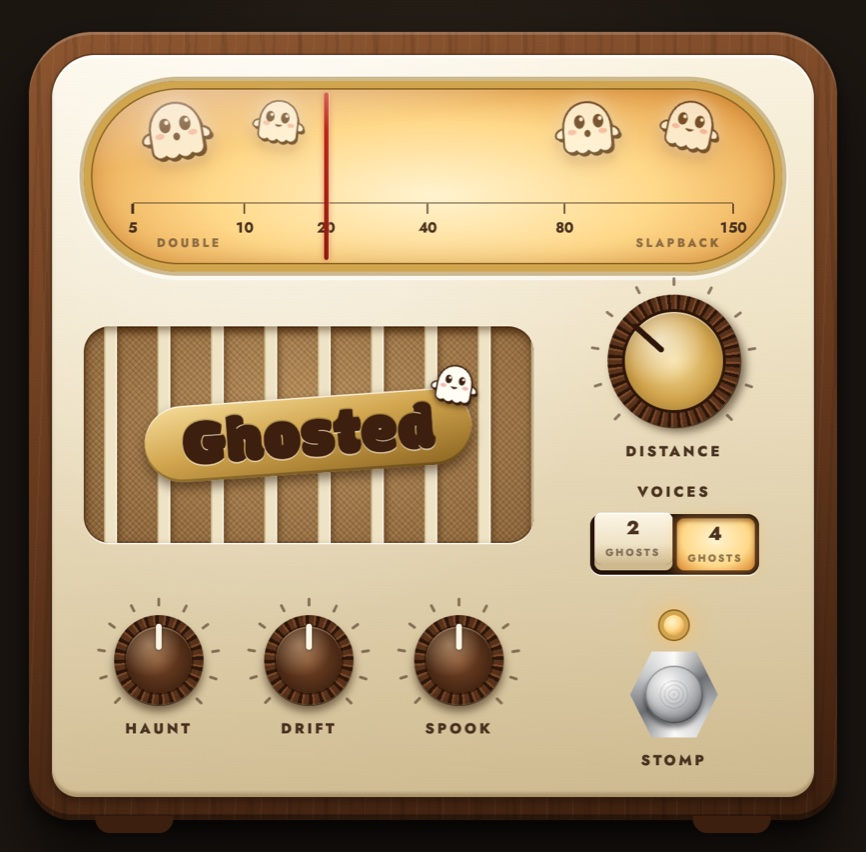
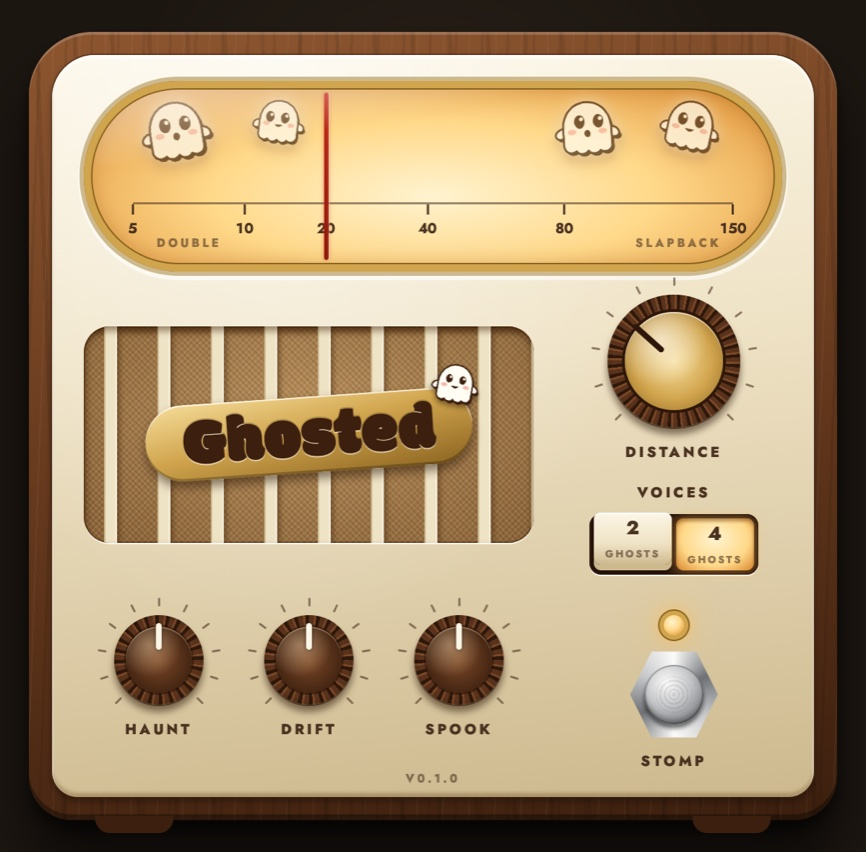
Show the plugin's version on the editor
The bridge sends the crate version from Cargo.toml in its init
message, and the page prints it small at the bottom centre of the
cream face, in the dial's ink. This replaces the version in the
grille's corner, which came from a script appended to the page and so
didn't show when the page was loaded from the dev server. The browser
mock takes its version from ?version=, and shows 0.0.0 without it.

The screenshot is retaken in WebKit, the engine closest to the macOS
plugin's webview.

Claude-Session: https://claude.ai/code/session_01M6vpxRWRNtrAWsf2BAetNX

diff --git a/ui/index.html b/ui/index.html
@@ -119,6 +119,7 @@
   }
 
   .face {
+    position: relative;
     display: grid;
     gap: 16px;
     padding: 18px 22px 20px;
@@ -131,6 +132,18 @@
       inset 0 -3px 2px rgb(110 80 40 / 0.35),
       0 0 0 1px rgb(60 30 10 / 0.5),
       0 3px 6px rgb(0 0 0 / 0.35);
+  }
+
+  .version {
+    position: absolute;
+    inset-block-end: 7px;
+    inset-inline: 0;
+    font-size: 8px;
+    font-weight: 800;
+    letter-spacing: 0.24em;
+    text-align: center;
+    text-transform: uppercase;
+    color: var(--ink-soft);
   }
 
   /* ---------- dial ---------- */
@@ -318,19 +331,6 @@
       box-shadow: inset 0 3px 6px rgb(60 30 5 / 0.5);
       filter: drop-shadow(2px 0 2px rgb(60 30 5 / 0.45));
     }
-  }
-
-  .version {
-    position: absolute;
-    inset-block-end: 8px;
-    inset-inline-end: 14px;
-    font-size: 10px;
-    font-weight: 600;
-    letter-spacing: 0.06em;
-    color: var(--walnut-lo);
-    opacity: 0.7;
-    text-shadow: 0 1px 0 rgb(255 255 255 / 0.25);
-    pointer-events: none;
   }
 
   .badge {
@@ -681,7 +681,6 @@
           <span class="wordmark">Ghosted</span>
 
         </div>
-        <span class="version" id="version"></span>
       </div>
       <div class="tuning">
         <div class="control" data-knob="distance" style="--size: 92px"></div>
@@ -697,6 +696,7 @@
       </div>
       <div class="footswitch" data-stomp-switch="stomp"></div>
     </div>
+    <span class="version" id="version"></span>
   </div>
 </main>
 
@@ -929,8 +929,7 @@
     switch (msg.type) {
       case "key": return forwardKey(msg);
       case "init":
-        // The plugin appends its version after the page; the browser mock has none.
-        document.getElementById("version").textContent = `v${window.GHOSTED_VERSION ?? "dev"}`;
+        document.getElementById("version").textContent = `v${msg.version}`;
         params.clear();
         msg.params.forEach((p) => params.set(p.id, { ...p, value: p.default, text: "" }));
         build();
@@ -952,6 +951,7 @@
   // Mirrors the plugin's parameters so the page can be worked on in a
   // browser. Keep it in step with params.rs.
   function mockBridge() {
+    const version = new URLSearchParams(location.search).get("version") ?? "0.0.0";
     const pct = (n) => `${Math.round(n * 100)}%`;
     const specs = [
       { id: "haunt", name: "Haunt", steps: 0, default: 0.5, text: pct },
@@ -970,7 +970,7 @@
     return (msg) => {
       switch (msg.type) {
         case "ready":
-          send({ type: "init", params: specs.map(({ text, ...rest }) => ({ options: [], ...rest })) });
+          send({ type: "init", version, params: specs.map(({ text, ...rest }) => ({ options: [], ...rest })) });
           sendValues(specs.map((s) => s.id));
           return;
         case "set":

diff --git a/plugin/src/bridge.rs b/plugin/src/bridge.rs
@@ -4,20 +4,21 @@ use serde_json::{json, Value};
 use std::sync::Arc;
 
 /// Speaks the page's message protocol for any `#[derive(Params)]` struct:
-/// `ready`, `begin`, `set` and `end` in; `init` and `values` out. Values are
-/// normalized, and the plugin formats the text.
+/// `ready`, `begin`, `set` and `end` in; `init` (with the plugin's version)
+/// and `values` out. Values are normalized, and the plugin formats the text.
 pub struct Bridge {
     /// Keeps the params alive for the pointers below.
     _params: Arc<dyn Params>,
+    version: &'static str,
     entries: Vec<(String, ParamPtr)>,
     sent: Vec<f32>,
 }
 
 impl Bridge {
-    pub fn new(params: Arc<dyn Params>) -> Self {
+    pub fn new(params: Arc<dyn Params>, version: &'static str) -> Self {
         let entries: Vec<_> = params.param_map().into_iter().map(|(id, ptr, _group)| (id, ptr)).collect();
         let sent = vec![f32::NAN; entries.len()];
-        Self { _params: params, entries, sent }
+        Self { _params: params, version, entries, sent }
     }
 
     fn find(&self, msg: &Value) -> Option<ParamPtr> {
@@ -30,7 +31,7 @@ impl Bridge {
         match (msg["type"].as_str().unwrap_or_default(), ptr) {
             ("ready", _) => {
                 self.sent.fill(f32::NAN);
-                out.push(json!({ "type": "init", "params": self.describe() }));
+                out.push(json!({ "type": "init", "version": self.version, "params": self.describe() }));
             }
             ("begin", Some(ptr)) => unsafe { context.raw_begin_set_parameter(ptr) },
             ("set", Some(ptr)) => {

diff --git a/plugin/src/editor.rs b/plugin/src/editor.rs
@@ -23,6 +23,7 @@ pub struct Page {
     pub title: &'static str,
     pub size: (u32, u32),
     pub html: &'static str,
+    pub version: &'static str,
     /// Shown until the page paints, as RGBA.
     pub background: (u8, u8, u8, u8),
     /// An env var that, when set to a dev server URL, loads the page from
@@ -111,7 +112,7 @@ impl Editor for WebEditor {
                         webview: None,
                         tx: Some(tx),
                         inbox,
-                        bridge: Bridge::new(params),
+                        bridge: Bridge::new(params, page.version),
                         ready: false,
                         page_has_focus: false,
                     }),

diff --git a/plugin/src/lib.rs b/plugin/src/lib.rs
@@ -11,14 +11,8 @@ use std::sync::Arc;
 static PAGE: editor::Page = editor::Page {
     title: "Ghosted",
     size: (600, 590),
-    // The page reads its version from this global, set by the script
-    // appended after it.
-    html: concat!(
-        include_str!("../../ui/index.html"),
-        "<script>window.GHOSTED_VERSION = \"",
-        env!("CARGO_PKG_VERSION"),
-        "\";</script>",
-    ),
+    html: include_str!("../../ui/index.html"),
+    version: env!("CARGO_PKG_VERSION"),
     background: (28, 22, 17, 255),
     dev_url_var: "GHOSTED_UI_URL",
 };

diff --git a/CLAUDE.md b/CLAUDE.md
@@ -57,6 +57,8 @@ changed in the sound.
   sqrt((ms − 5) / 145). Change `distanceAt` if the range or skew changes.
 - The ghosts are stamped from `<template id="ghost">`, not `<use>`, so
   page CSS reaches their eyes and mouths.
+- The version, from the root `Cargo.toml`, is printed small at the
+  bottom centre of the cream face, in the dial's ink.
 - The local preview server (`python3 -m http.server`) gets cached by the
   browser. Add a query string like `?v=2` after each edit.
 - After a visible UI change, retake `docs/ghosted.jpg`: capture the full

diff --git a/README.md b/README.md
@@ -78,7 +78,8 @@ work on it in a browser:
 cd ui && python3 -m http.server 8765    # open http://127.0.0.1:8765
 ```
 
-To load the page live in the plugin, set `GHOSTED_UI_URL` to that URL
+Add `?version=1.2.0` to show a version other than `0.0.0`. To load
+the page live in the plugin, set `GHOSTED_UI_URL` to that URL
 before starting the host.
 
 ## CI and releases
